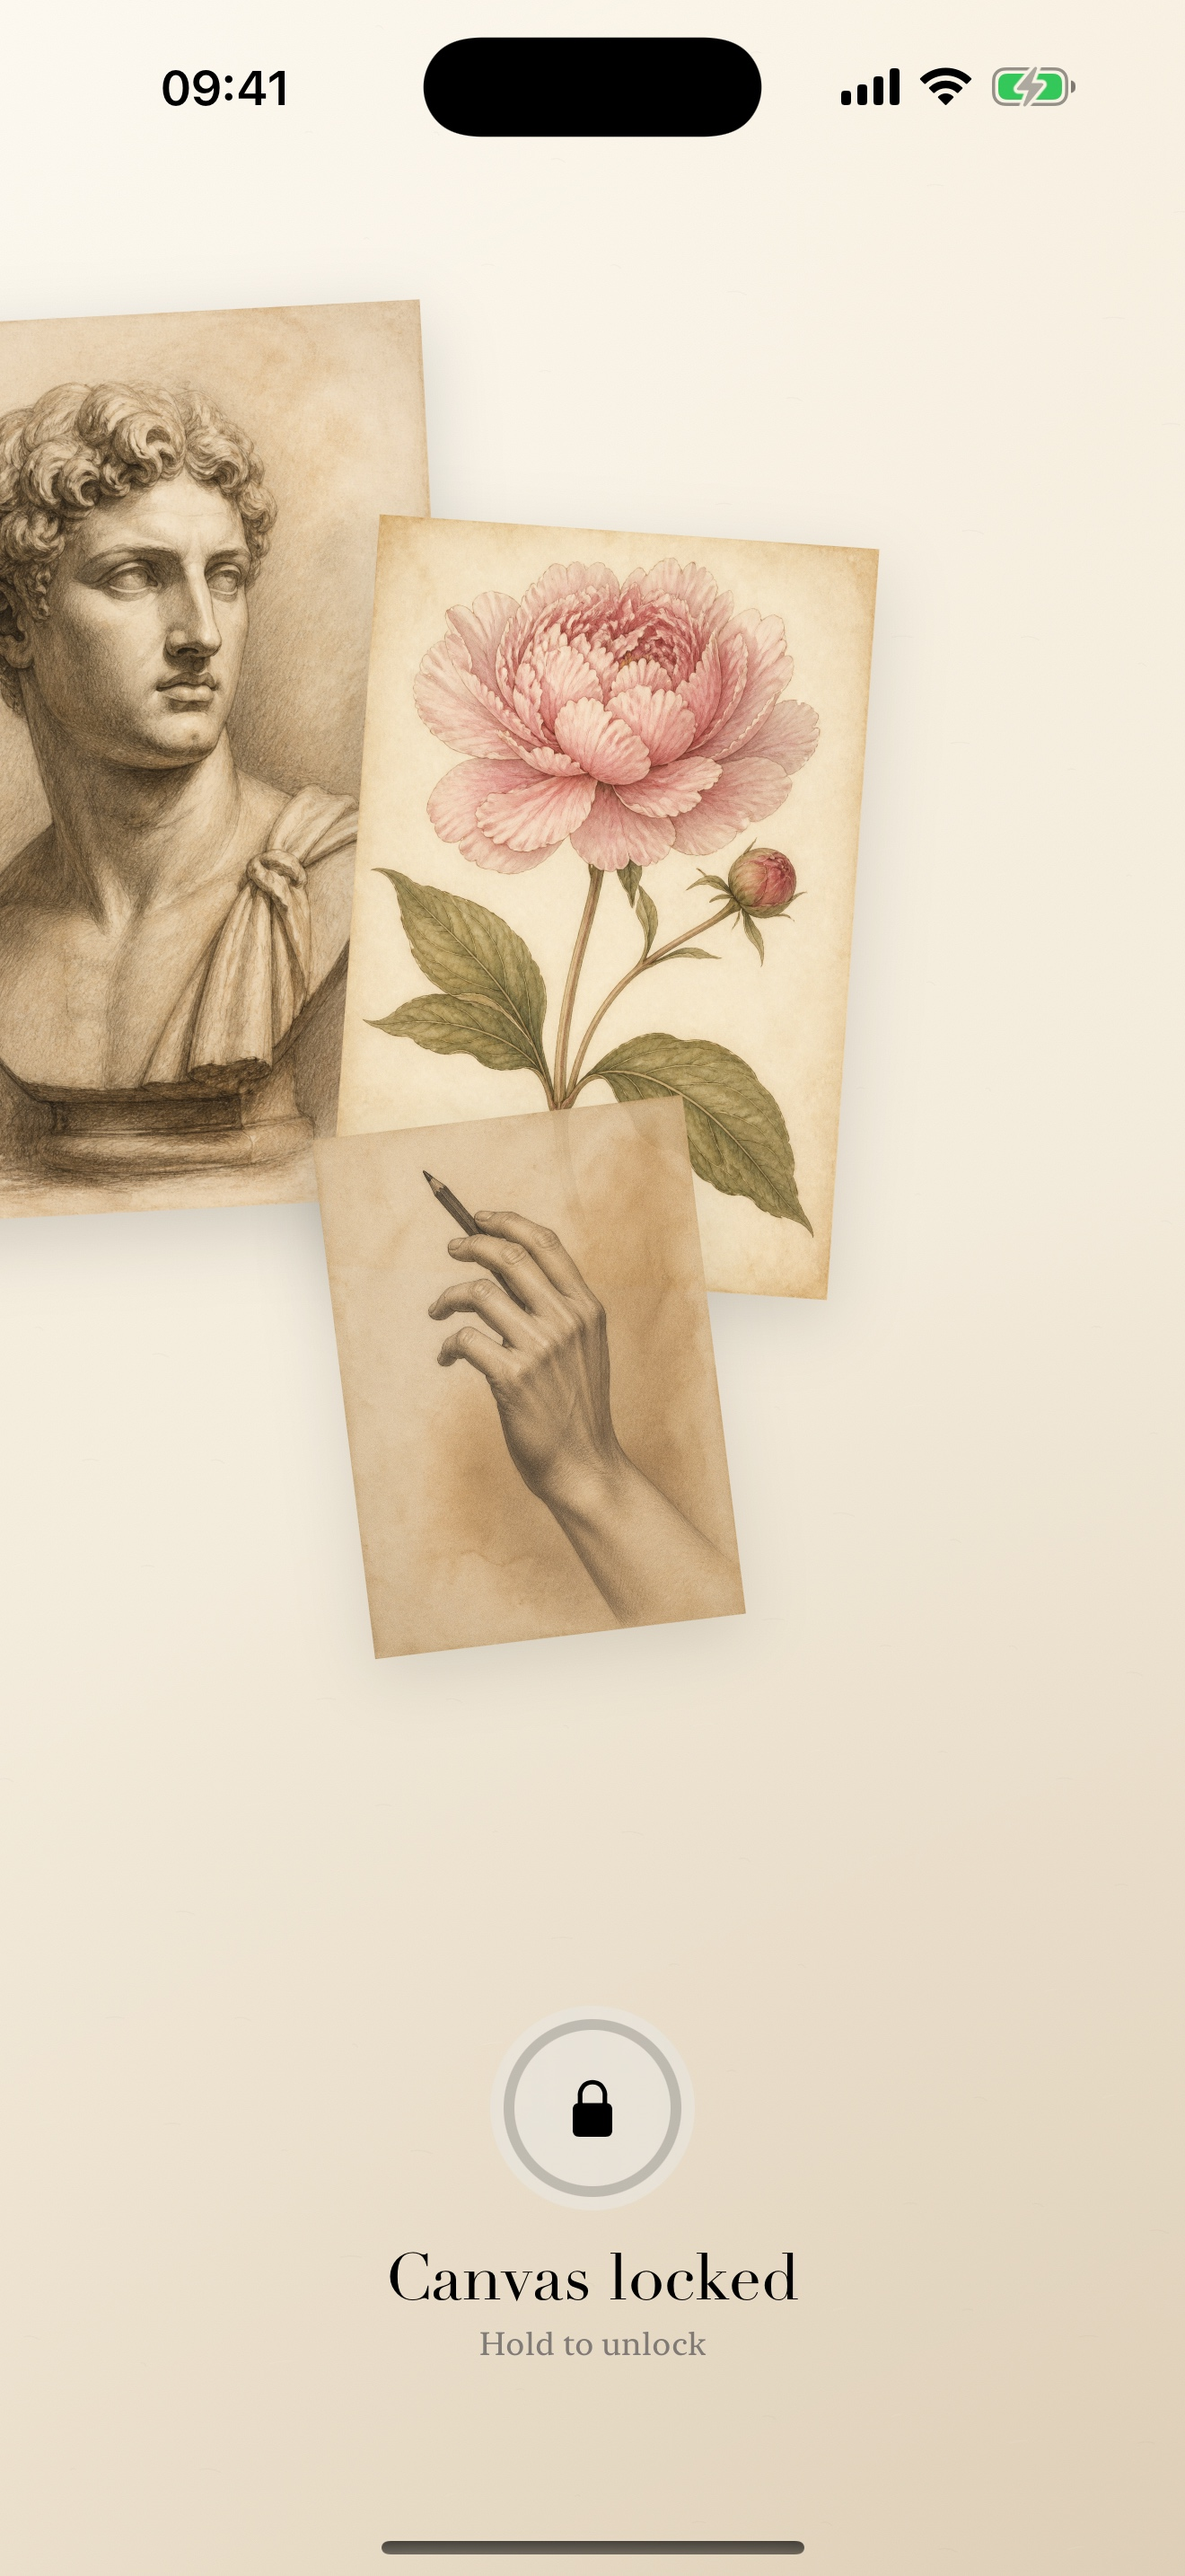
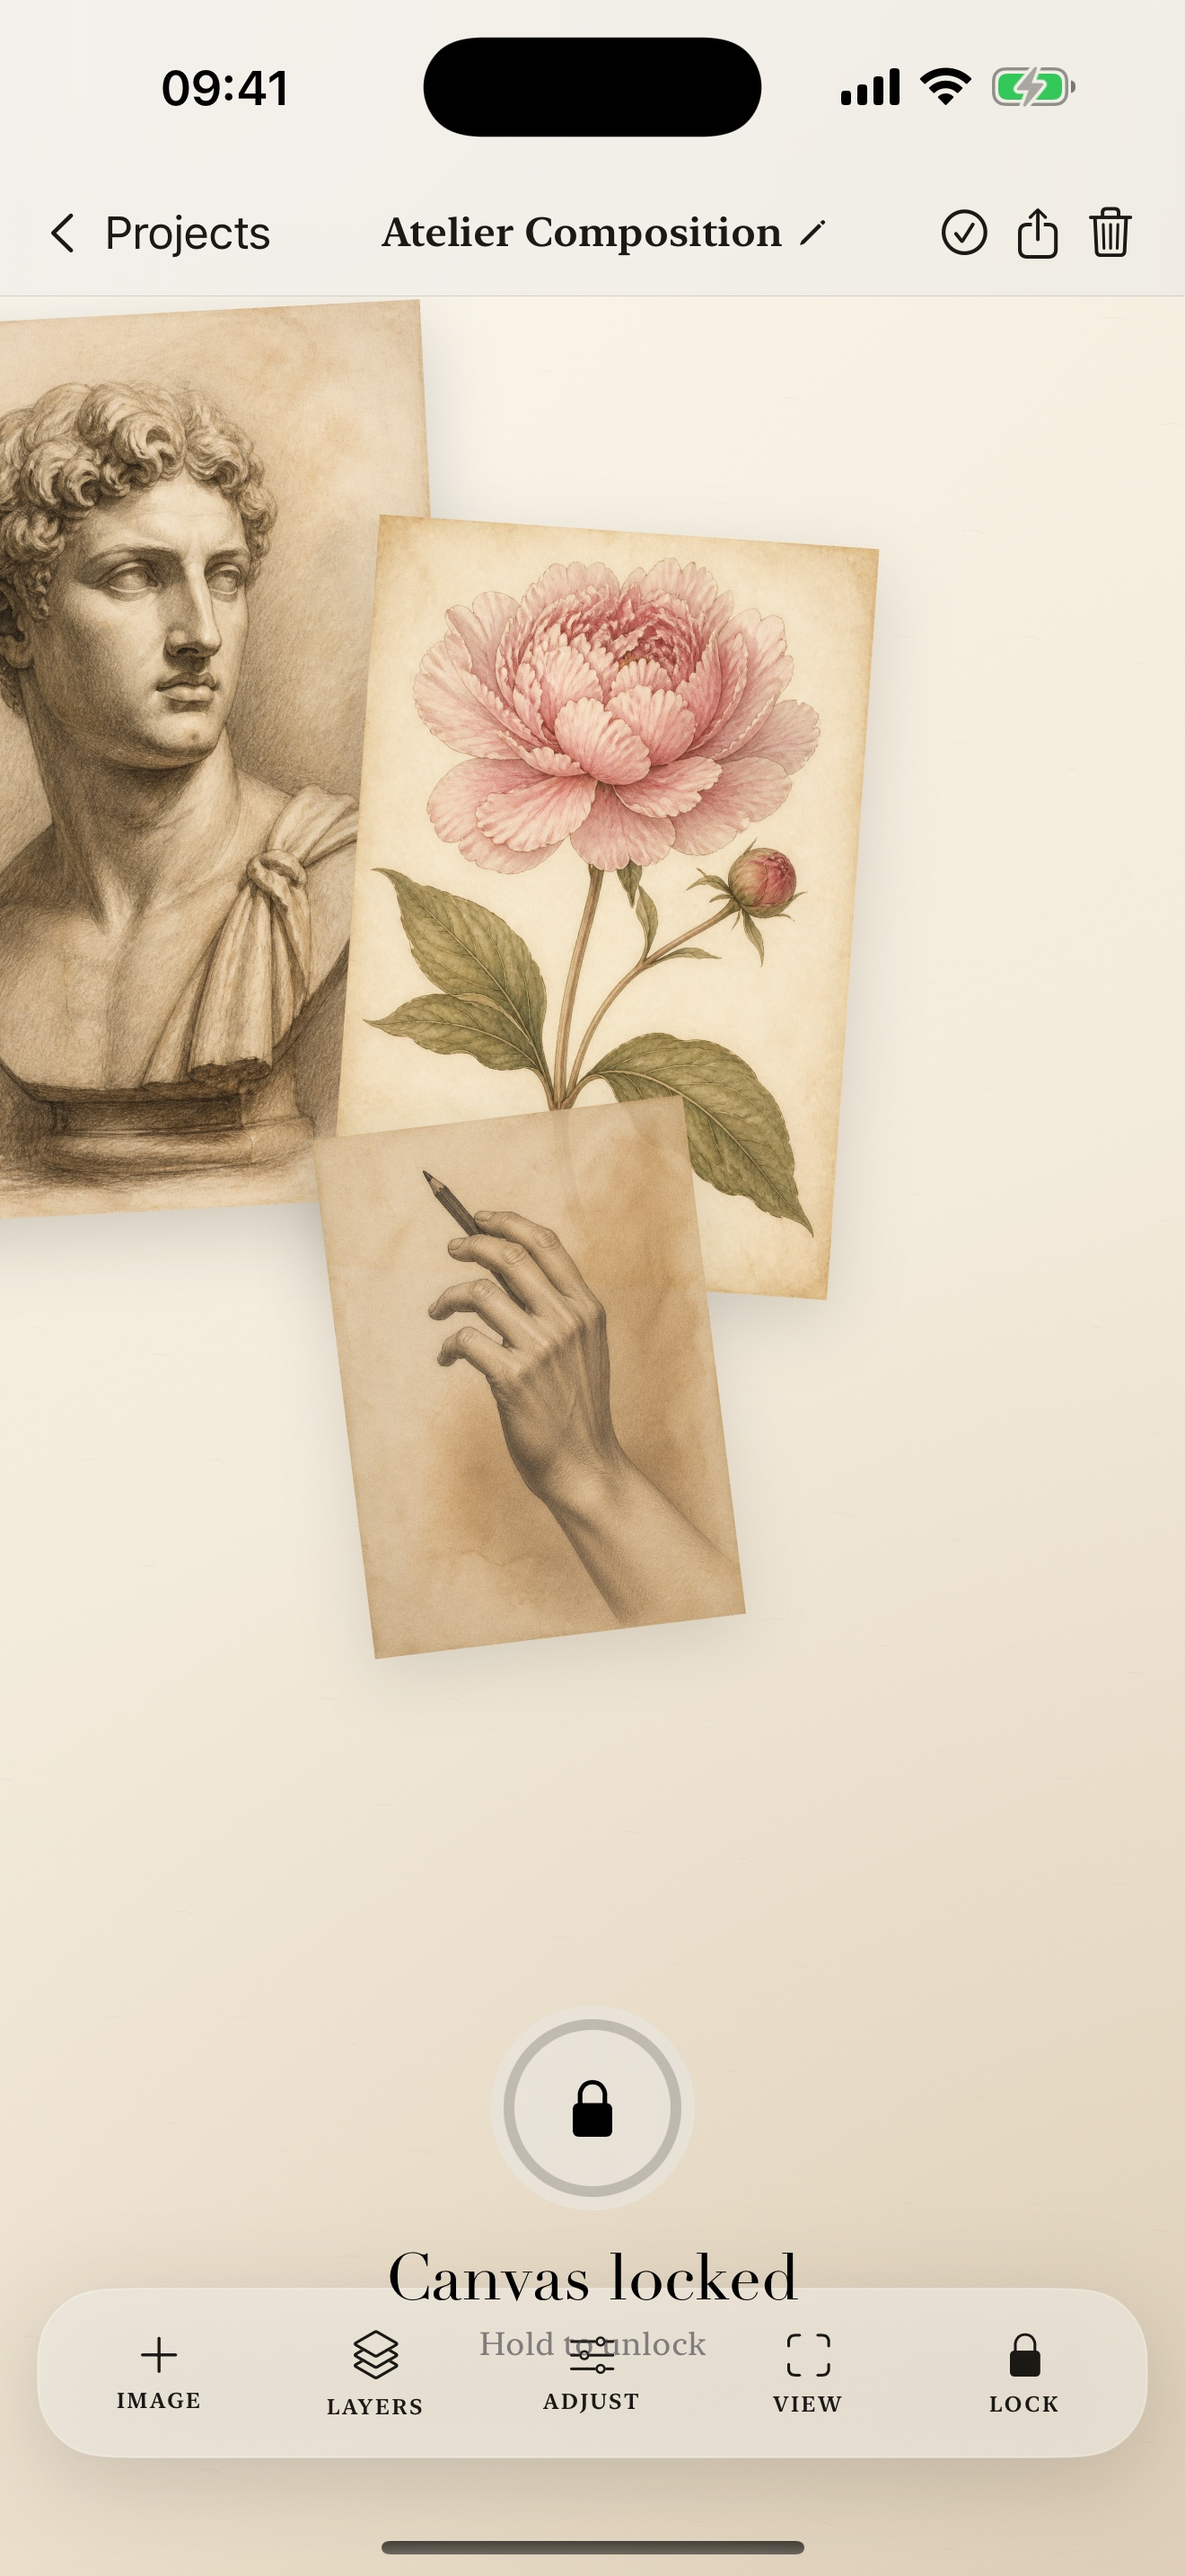
canvas

diff --git a/DrawThrough/CanvasComponents.swift b/DrawThrough/CanvasComponents.swift
@@ -6,6 +6,7 @@ import UIKit
 struct LayerCanvasItem: View {
     @Binding var layer: LayerItem
     let selected: Bool
+    let interactionEnabled: Bool
     let canvasSize: CGSize
     let select: () -> Void
     @GestureState private var drag: CGSize = .zero
@@ -26,12 +27,12 @@ struct LayerCanvasItem: View {
             .opacity(layer.opacity).brightness(layer.brightness).contrast(layer.contrast)
             .overlay { if selected { SelectionFrame(layer: $layer) } }
             .scaleEffect(layer.scale * zoom).rotationEffect(layer.rotation + turn).offset(x: layer.position.width + drag.width, y: layer.position.height + drag.height)
-            .contentShape(Rectangle()).onTapGesture(perform: select)
+            .contentShape(Rectangle())
             .gesture(layer.locked ? nil : dragGesture.simultaneously(with: magnifyGesture).simultaneously(with: rotateGesture))
-            .allowsHitTesting(layer.opacity > 0.02)
+            .allowsHitTesting(interactionEnabled && layer.opacity > 0.02)
             .accessibilityLabel(layer.name)
     }
-    private var dragGesture: some Gesture { DragGesture().updating($drag) { value, state, _ in state = value.translation }.onEnded { layer.position.width += $0.translation.width; layer.position.height += $0.translation.height } }
+    private var dragGesture: some Gesture { DragGesture().onChanged { _ in if !selected { select() } }.updating($drag) { value, state, _ in state = value.translation }.onEnded { layer.position.width += $0.translation.width; layer.position.height += $0.translation.height } }
     private var magnifyGesture: some Gesture { MagnificationGesture().updating($zoom) { value, state, _ in state = value }.onEnded { layer.scale = min(max(layer.scale * $0, 0.15), 6) } }
     private var rotateGesture: some Gesture { RotationGesture().updating($turn) { value, state, _ in state = value }.onEnded { layer.rotation += $0 } }
 }
@@ -67,10 +68,16 @@ private struct SelectionFrame: View {
 }
 
 struct TwoFingerPanInstaller: UIViewRepresentable {
+    let isEnabled: Bool
     let onChange: (CGSize) -> Void
-    func makeCoordinator() -> Coordinator { Coordinator(onChange: onChange) }
+    func makeCoordinator() -> Coordinator { Coordinator(isEnabled: isEnabled, onChange: onChange) }
     func makeUIView(context: Context) -> InstallerView { let view = InstallerView(); view.coordinator = context.coordinator; return view }
-    func updateUIView(_ uiView: InstallerView, context: Context) { context.coordinator.onChange = onChange; uiView.installIfNeeded() }
+    func updateUIView(_ uiView: InstallerView, context: Context) {
+        context.coordinator.onChange = onChange
+        context.coordinator.isEnabled = isEnabled
+        uiView.installIfNeeded()
+        context.coordinator.recognizer?.isEnabled = isEnabled
+    }
     static func dismantleUIView(_ uiView: InstallerView, coordinator: Coordinator) { uiView.removeRecognizer() }
 
     final class InstallerView: UIView {
@@ -81,14 +88,16 @@ struct TwoFingerPanInstaller: UIViewRepresentable {
             guard let host = window, installedOn == nil, let coordinator else { return }
             let pan = UIPanGestureRecognizer(target: coordinator, action: #selector(Coordinator.panned(_:)))
             pan.minimumNumberOfTouches = 2; pan.maximumNumberOfTouches = 2; pan.cancelsTouchesInView = false; pan.delegate = coordinator
+            pan.isEnabled = coordinator.isEnabled
             host.addGestureRecognizer(pan); coordinator.recognizer = pan; installedOn = host
         }
         func removeRecognizer() { if let recognizer = coordinator?.recognizer { installedOn?.removeGestureRecognizer(recognizer) }; installedOn = nil }
     }
     final class Coordinator: NSObject, UIGestureRecognizerDelegate {
         var onChange: (CGSize) -> Void
+        var isEnabled: Bool
         weak var recognizer: UIPanGestureRecognizer?
-        init(onChange: @escaping (CGSize) -> Void) { self.onChange = onChange }
+        init(isEnabled: Bool, onChange: @escaping (CGSize) -> Void) { self.isEnabled = isEnabled; self.onChange = onChange }
         @objc func panned(_ recognizer: UIPanGestureRecognizer) {
             let translation = recognizer.translation(in: recognizer.view)
             onChange(CGSize(width: translation.x, height: translation.y)); recognizer.setTranslation(.zero, in: recognizer.view)
@@ -129,8 +138,11 @@ struct LayersPanel: View {
     @Binding var selection: UUID?
     var body: some View {
         NavigationStack { List { ForEach($layers.reversed()) { $layer in
-            HStack { Button { layer.hidden.toggle() } label: { Image(systemName: layer.hidden ? "eye.slash" : "eye") }; Image(uiImage: layer.image).resizable().scaledToFill().frame(width: 45, height: 45).clipShape(RoundedRectangle(cornerRadius: 6)); VStack(alignment: .leading) { TextField("Layer", text: $layer.name); Text(selection == layer.id ? "ACTIVE · \(Int(layer.opacity * 100))% · \(layer.mode.rawValue)" : "\(Int(layer.opacity * 100))% · \(layer.mode.rawValue)").font(.caption).fontWeight(selection == layer.id ? .semibold : .regular).foregroundStyle(selection == layer.id ? DTTheme.clay : .secondary) }; Spacer(); if selection == layer.id { Image(systemName: "checkmark.circle.fill").foregroundStyle(DTTheme.clay) }; Button { layer.locked.toggle() } label: { Image(systemName: layer.locked ? "lock.fill" : "lock.open") } }
-                .contentShape(Rectangle()).onTapGesture { selection = layer.id }
+            HStack { Button { layer.hidden.toggle() } label: { Image(systemName: layer.hidden ? "eye.slash" : "eye").frame(width: 30, height: 36) }.buttonStyle(.borderless); Image(uiImage: layer.image).resizable().scaledToFill().frame(width: 45, height: 45).clipShape(RoundedRectangle(cornerRadius: 6)); VStack(alignment: .leading) { TextField("Layer", text: $layer.name); Text(layer.locked ? "LOCKED · \(Int(layer.opacity * 100))% · \(layer.mode.rawValue)" : (selection == layer.id ? "ACTIVE · \(Int(layer.opacity * 100))% · \(layer.mode.rawValue)" : "\(Int(layer.opacity * 100))% · \(layer.mode.rawValue)")).font(.caption).fontWeight(selection == layer.id ? .semibold : .regular).foregroundStyle(layer.locked ? .secondary : (selection == layer.id ? DTTheme.clay : .secondary)) }; Spacer(); if selection == layer.id { Image(systemName: "checkmark.circle.fill").foregroundStyle(DTTheme.clay) }; Button {
+                layer.locked.toggle()
+                if layer.locked && selection == layer.id { selection = layers.reversed().first(where: { !$0.locked && !$0.hidden && $0.id != layer.id })?.id }
+            } label: { Image(systemName: layer.locked ? "lock.fill" : "lock.open").frame(width: 34, height: 36).contentShape(Rectangle()) }.buttonStyle(.borderless).accessibilityLabel(layer.locked ? "Unlock \(layer.name)" : "Lock \(layer.name)") }
+                .contentShape(Rectangle()).onTapGesture { if !layer.locked { selection = layer.id } }
                 .listRowBackground(selection == layer.id ? DTTheme.parchment.opacity(0.55) : Color.clear)
             }.onMove { source, destination in layers.move(fromOffsets: source, toOffset: max(0, layers.count - destination)) }.onDelete { offsets in let ids = offsets.map { Array(layers.reversed())[$0].id }; layers.removeAll { ids.contains($0.id) } }
         }.parchmentList().navigationTitle("Layers").navigationBarTitleDisplayMode(.inline).toolbar { EditButton() } }.presentationDetents([.medium, .large]).presentationBackground(.ultraThinMaterial)

diff --git a/DrawThrough/CanvasView.swift b/DrawThrough/CanvasView.swift
@@ -42,13 +42,16 @@ struct CanvasView: View {
                 }.ignoresSafeArea()
                 ZStack {
                     if showGrid { GridOverlay().stroke(.black.opacity(0.10), lineWidth: 0.7).frame(width: geo.size.width * 3, height: geo.size.height * 3) }
+                    Color.clear.contentShape(Rectangle())
                     if layers.isEmpty {
                         PhotosPicker(selection: $photoItems, maxSelectionCount: 12, matching: .images) { EmptyCanvasHint() }.buttonStyle(.plain)
                     }
                     ForEach(layers) { layer in
-                        if !layer.hidden { LayerCanvasItem(layer: binding(for: layer), selected: selection == layer.id, canvasSize: geo.size) { selection = layer.id } }
+                        if !layer.hidden { LayerCanvasItem(layer: binding(for: layer), selected: selection == layer.id, interactionEnabled: selection == nil || selection == layer.id, canvasSize: geo.size) { selection = layer.id } }
                     }
-                }.scaleEffect(canvasScale).offset(canvasOffset)
+                }
+                .simultaneousGesture(SpatialTapGesture().onEnded { tap in selectLayer(at: tap.location, canvasSize: geo.size) })
+                .scaleEffect(canvasScale).offset(canvasOffset)
                 if traceLocked { LockedOverlay { unlock() } }
             }
             .safeAreaInset(edge: .top, spacing: 0) { topBar }
@@ -75,7 +78,7 @@ struct CanvasView: View {
         .overlay(alignment: .top) {
             if showSavedFeedback { Label("Composition saved", systemImage: "checkmark.circle.fill").font(.system(.caption, design: .serif, weight: .semibold)).padding(.horizontal, 14).padding(.vertical, 9).background(.ultraThinMaterial, in: Capsule()).padding(.top, 62).transition(.move(edge: .top).combined(with: .opacity)) }
         }
-        .background { TwoFingerPanInstaller { delta in guard !traceLocked else { return }; canvasOffset.width += delta.width; canvasOffset.height += delta.height } }
+        .background { TwoFingerPanInstaller(isEnabled: !traceLocked && selection == nil) { delta in canvasOffset.width += delta.width; canvasOffset.height += delta.height } }
     }
 
     private var topBar: some View {
@@ -184,6 +187,29 @@ struct CanvasView: View {
             canvasOffset = CGSize(width: -bounds.midX * canvasScale, height: -bounds.midY * canvasScale)
         }
         panel = nil
+    }
+    private func selectLayer(at location: CGPoint, canvasSize: CGSize) {
+        let point = CGPoint(x: (location.x - canvasSize.width / 2) / canvasScale,
+                            y: (location.y - canvasSize.height / 2) / canvasScale)
+        let candidates = layers.reversed().filter { layer in
+            guard !layer.hidden, !layer.locked, layer.opacity > 0.02 else { return false }
+            let maximum = CGSize(width: min(canvasSize.width * 0.68, 620), height: canvasSize.height * 0.68)
+            let ratio = min(maximum.width / max(layer.image.size.width, 1), maximum.height / max(layer.image.size.height, 1))
+            let halfWidth = layer.image.size.width * ratio * layer.scale / 2
+            let halfHeight = layer.image.size.height * ratio * layer.scale / 2
+            let dx = point.x - layer.position.width
+            let dy = point.y - layer.position.height
+            let cosine = cos(-layer.rotation.radians), sine = sin(-layer.rotation.radians)
+            let localX = dx * cosine - dy * sine
+            let localY = dx * sine + dy * cosine
+            return abs(localX) <= halfWidth && abs(localY) <= halfHeight
+        }.map(\.id)
+        guard !candidates.isEmpty else { selection = nil; return }
+        if let current = selection, let index = candidates.firstIndex(of: current), candidates.count > 1 {
+            selection = candidates[(index + 1) % candidates.count]
+        } else {
+            selection = candidates[0]
+        }
     }
     private func renderComposition() -> UIImage? {
         let renderer = ImageRenderer(content: ZStack { background; ForEach(layers.filter { !$0.hidden }) { layer in Image(uiImage: FilterEngine.process(layer)).resizable().scaledToFit().frame(width: 500).scaleEffect(layer.scale).rotationEffect(layer.rotation).offset(layer.position).opacity(layer.opacity) } }.frame(width: 1200, height: 1600))

diff --git a/DrawThrough/HomeView.swift b/DrawThrough/HomeView.swift
@@ -54,6 +54,7 @@ struct HomeView: View {
 
 struct ProjectCard: View {
     @EnvironmentObject private var store: ProjectStore
+    @State private var showDeleteConfirmation = false
     let project: ProjectSummary
     let open: () -> Void
     var body: some View {
@@ -69,7 +70,11 @@ struct ProjectCard: View {
                         }
                     }.aspectRatio(1.18, contentMode: .fit).clipShape(RoundedRectangle(cornerRadius: 15))
                     Text(project.name).font(.system(.headline, design: .serif, weight: .semibold)).lineLimit(1)
-                    Text(project.modifiedAt, style: .relative).font(.caption).foregroundStyle(.secondary)
+                    HStack {
+                        Text(project.canvas.rawValue.uppercased()).font(DTTheme.smallCaps).tracking(1).foregroundStyle(.secondary)
+                        Spacer()
+                        Color.clear.frame(width: 30, height: 30)
+                    }
                 }.padding(10).vellumSurface(radius: 18)
             }.buttonStyle(.plain)
             Button {
@@ -79,11 +84,16 @@ struct ProjectCard: View {
                     .font(.system(size: 14, weight: .semibold)).foregroundStyle(project.favorite ? DTTheme.clay : DTTheme.ink)
                     .frame(width: 34, height: 34).background(.ultraThinMaterial, in: Circle())
             }.padding(17).accessibilityLabel(project.favorite ? "Remove from favorites" : "Add to favorites")
+            VStack { Spacer(); Button(role: .destructive) { showDeleteConfirmation = true } label: { Image(systemName: "trash").font(.system(size: 13, weight: .semibold)).frame(width: 30, height: 30).background(DTTheme.parchment.opacity(0.65), in: Circle()) }.foregroundStyle(DTTheme.clay).accessibilityLabel("Delete \(project.name)") }.padding(17)
         }.contextMenu {
             Button { var copy = project; copy.id = UUID(); copy.name += " Copy"; store.projects.insert(copy, at: 0) } label: { Label("Duplicate", systemImage: "plus.square.on.square") }
             Button { var value = project; value.favorite.toggle(); store.update(value) } label: { Label(project.favorite ? "Unfavorite" : "Favorite", systemImage: "heart") }
             Button(role: .destructive) { store.delete(project) } label: { Label("Delete", systemImage: "trash") }
         }
+        .confirmationDialog("Delete \(project.name)?", isPresented: $showDeleteConfirmation, titleVisibility: .visible) {
+            Button("Delete Composition", role: .destructive) { store.delete(project) }
+            Button("Cancel", role: .cancel) { }
+        } message: { Text("This removes the composition and all of its reference images.") }
     }
 }
 

diff --git a/DrawThrough/SettingsAndTips.swift b/DrawThrough/SettingsAndTips.swift
@@ -29,8 +29,6 @@ struct SettingsView: View {
                         FineDivider()
                         HStack {
                             SettingLabel(icon: "info", title: "Draw Through", detail: "Made for slow, careful looking")
-                            Spacer()
-                            Text("1.0").font(.system(.subheadline, design: .serif)).foregroundStyle(DTTheme.clay.opacity(0.65))
                         }
                     }
                     Text("A quiet tool for turning references into drawings.").font(.system(.footnote, design: .serif)).italic().foregroundStyle(DTTheme.ink.opacity(0.45)).frame(maxWidth: .infinity).padding(.vertical, 8)
